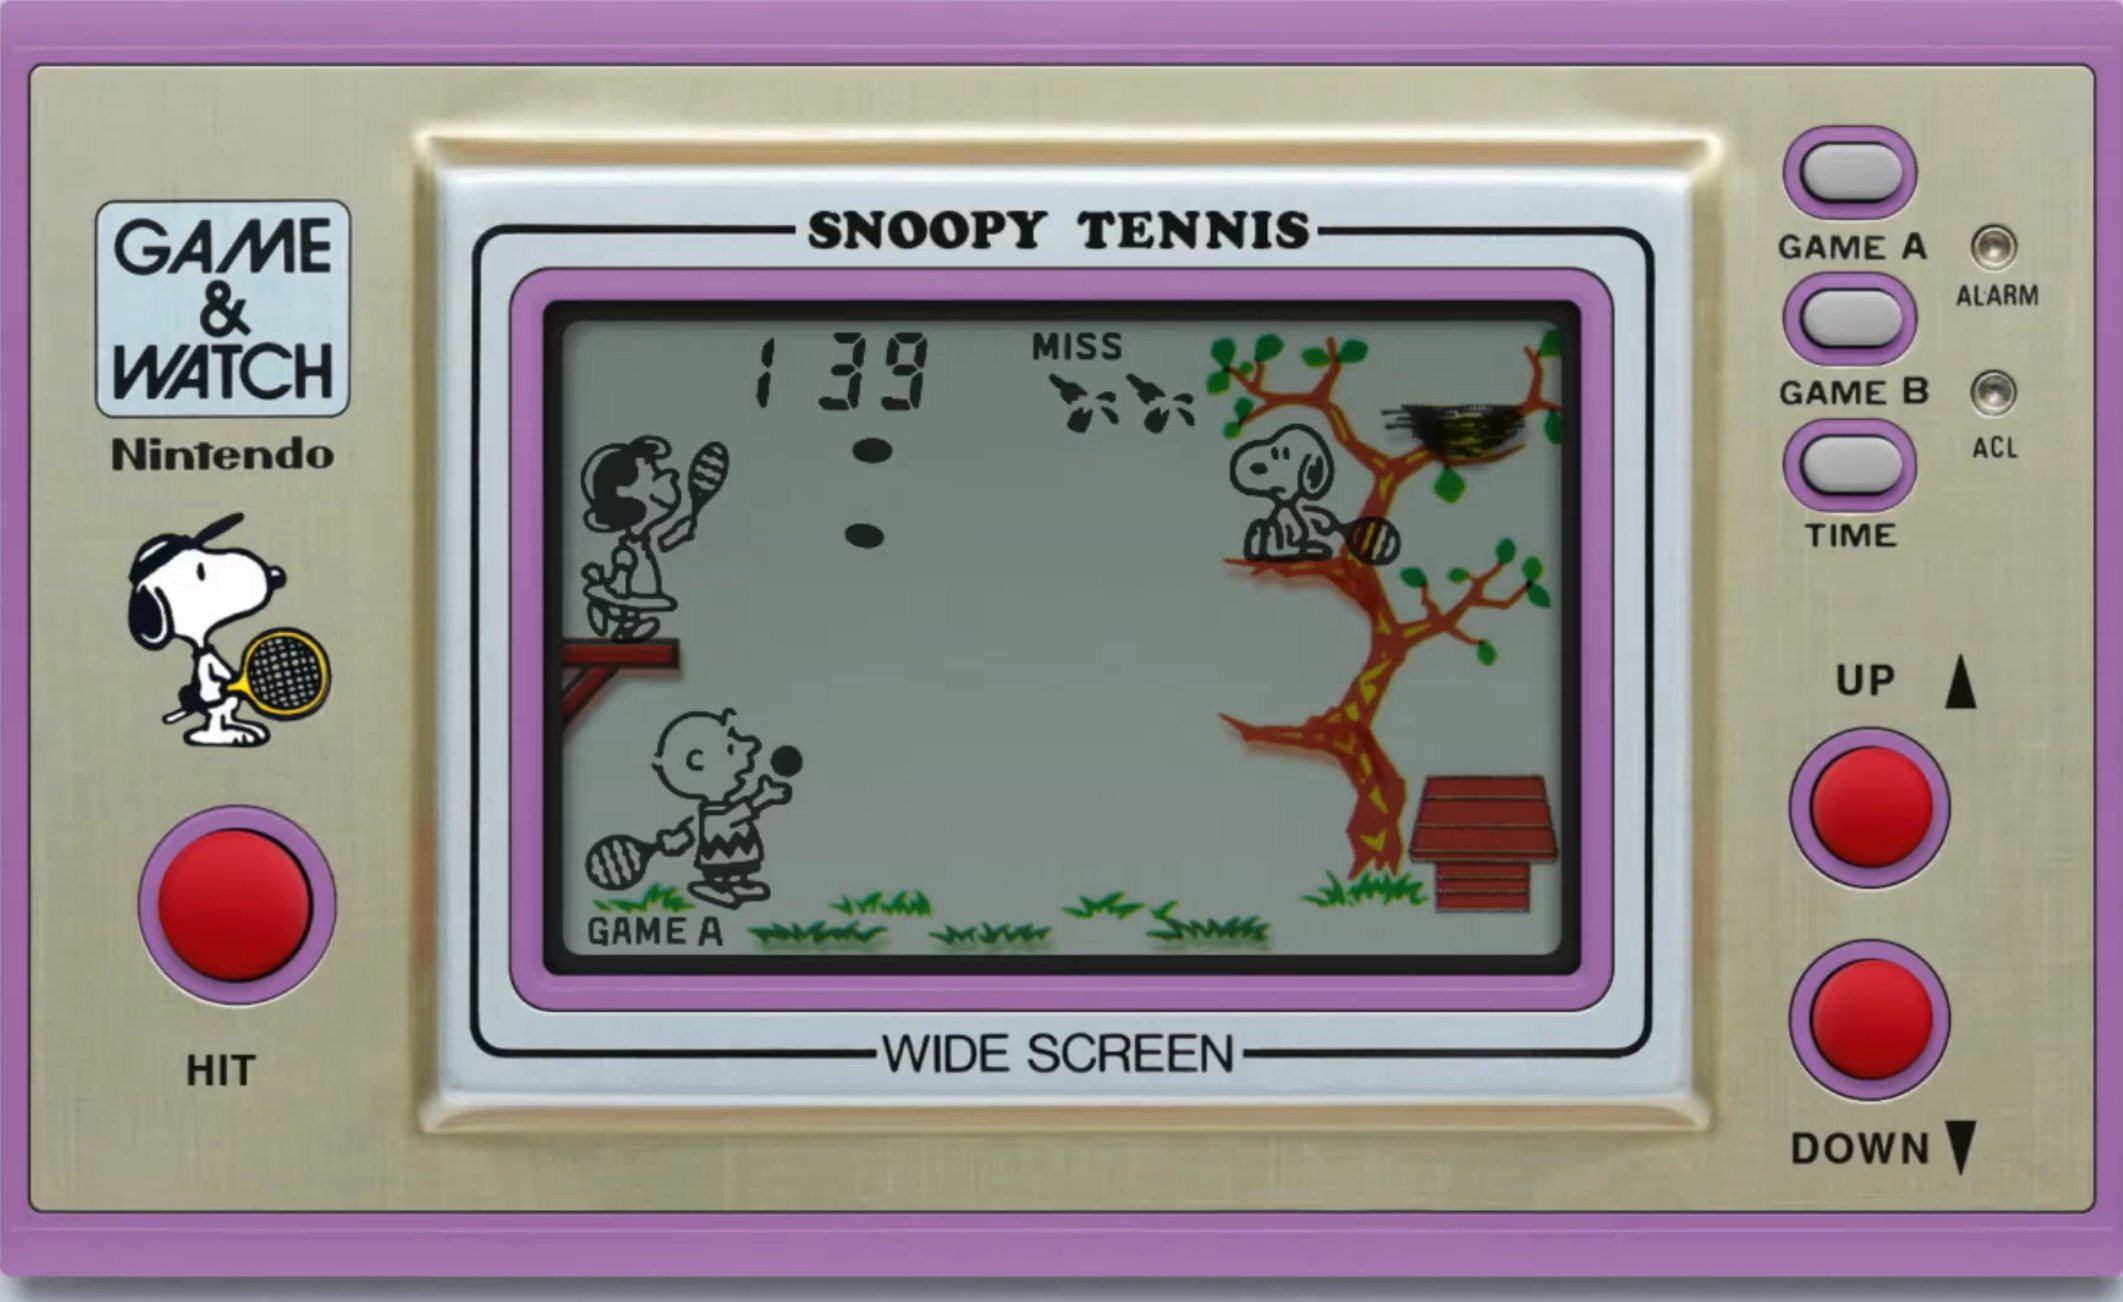
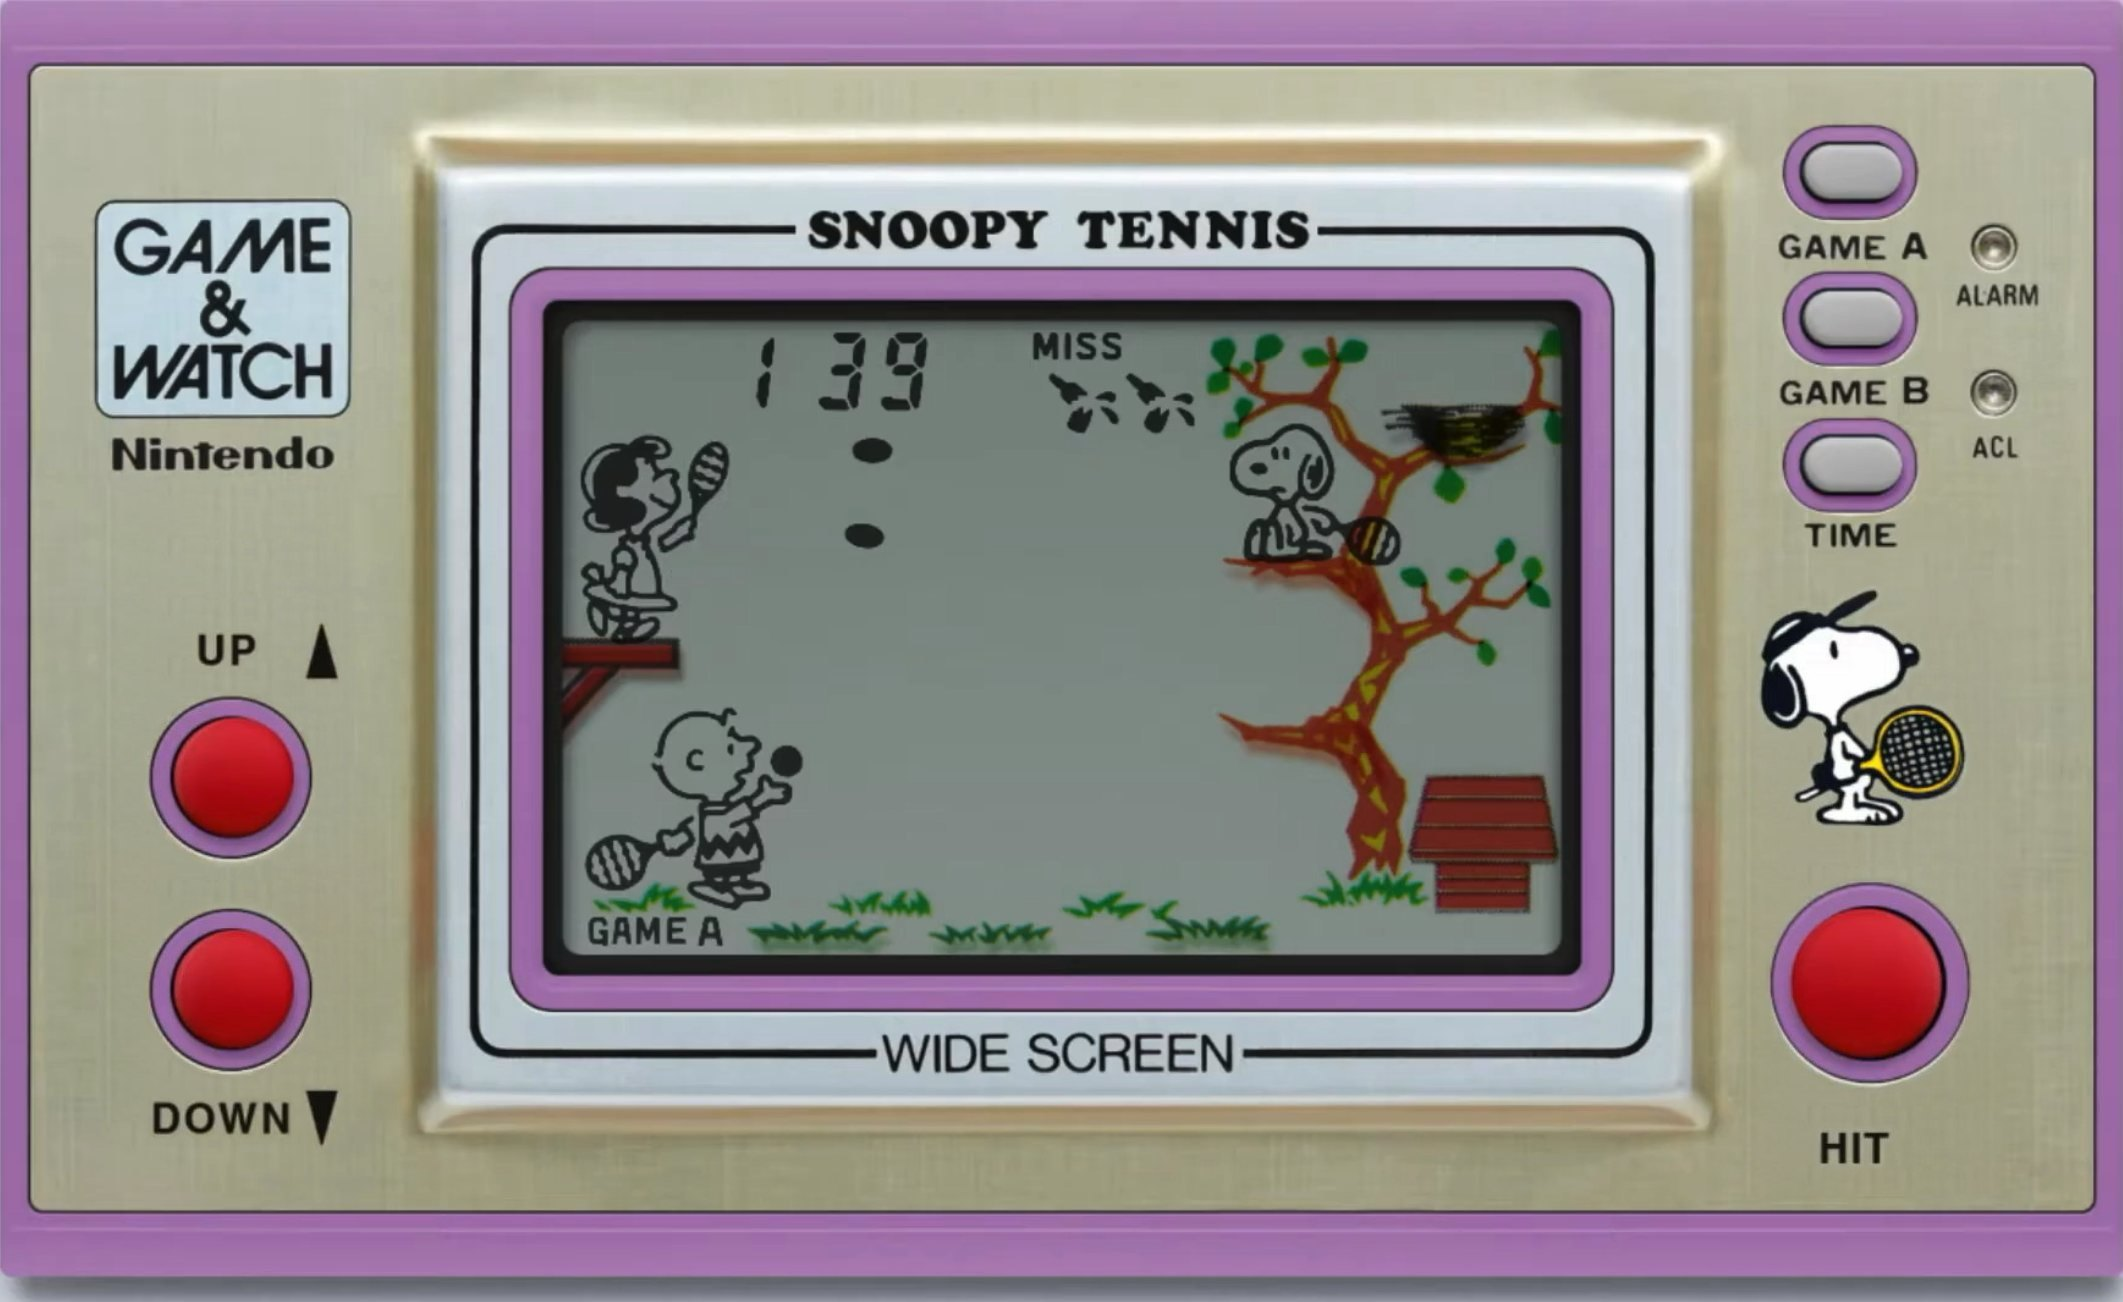
Swap controls: UP/DOWN on the left, HIT on the right (both layouts)
The device photo is re-composed: the UP/DOWN cluster moves to the left, the
HIT button moves to the right, and the Snoopy mascot moves above HIT so all
buttons keep their original size. Vacated areas are refilled with the
faceplate. Touch areas follow; the upright layout is mirrored to match.

Claude-Session: https://claude.ai/code/session_01F9zz5Cnvdqt99eQ18sZoej

Changed region(s): [[0.0622, 0.3994, 0.1865, 0.8909], [0.8083, 0.4608, 0.9326, 0.8909]]

diff --git a/snoopy-tennis/index.html b/snoopy-tennis/index.html
@@ -68,7 +68,7 @@ html,body{margin:0;height:100%;background:radial-gradient(ellipse at 50% 45%,#3b
   border:4px solid #9b78b4;background:linear-gradient(#fbfbfd,#c7c7cf 60%,#a9a9b3);
   box-shadow:0 3px 0 #6f5489,0 5px 8px rgba(60,40,10,.25),inset 0 1px 0 #fff}
 .pillbtn.on{transform:translateY(3px);box-shadow:0 0 0 #6f5489,0 1px 2px rgba(60,40,10,.2),inset 0 2px 3px rgba(0,0,0,.2)}
-.main{display:flex;align-items:center;justify-content:space-between;padding:0 clamp(6px,4vw,22px)}
+.main{display:flex;flex-direction:row-reverse;align-items:center;justify-content:space-between;padding:0 clamp(6px,4vw,22px)}
 .dpad{display:flex;flex-direction:column;gap:clamp(6px,1.6vh,14px)}
 .red{--s:clamp(66px,10.5vh,86px);width:var(--s);height:var(--s);border-radius:50%;padding:0;cursor:pointer;touch-action:none;
   border:6px solid #9b78b4;
@@ -90,9 +90,9 @@ html,body{margin:0;height:100%;background:radial-gradient(ellipse at 50% 45%,#3b
   <button class="hit pill" id="bA"  aria-label="GAME A"  style="left:1780px;top:142px;width:140px;height:60px"></button>
   <button class="hit pill" id="bB"  aria-label="GAME B"  style="left:1780px;top:286px;width:140px;height:60px"></button>
   <button class="hit pill" id="bT"  aria-label="TIME"    style="left:1780px;top:432px;width:140px;height:60px"></button>
-  <button class="hit" id="up"   aria-label="UP"   style="left:1774px;top:710px;width:192px;height:192px"></button>
-  <button class="hit" id="down" aria-label="DOWN" style="left:1774px;top:920px;width:192px;height:192px"></button>
-  <button class="hit" id="hit"  aria-label="HIT"  style="left:140px;top:808px;width:192px;height:192px"></button>
+  <button class="hit" id="up"   aria-label="UP"   style="left:135px;top:680px;width:192px;height:192px"></button>
+  <button class="hit" id="down" aria-label="DOWN" style="left:135px;top:890px;width:192px;height:192px"></button>
+  <button class="hit" id="hit"  aria-label="HIT"  style="left:1773px;top:886px;width:192px;height:192px"></button>
 </div>
 </div>
 <canvas id="cv" width="997" height="632"></canvas>

diff --git a/snoopy-tennis/sw.js b/snoopy-tennis/sw.js
@@ -1,4 +1,4 @@
-const CACHE = 'snoopy-tennis-v13';
+const CACHE = 'snoopy-tennis-v14';
 const ASSETS = ['./', 'index.html', 'manifest.json', 'favicon-32.png', 'apple-touch-icon.png', 'icon-192.png', 'icon-512.png', 'assets/atlas.json', 'assets/bg.webp', 'assets/bird1.webp', 'assets/bird2.webp', 'assets/ch_ball.webp', 'assets/ch_idle.webp', 'assets/ch_pow.webp', 'assets/ch_toss.webp', 'assets/d0.png', 'assets/d1.png', 'assets/d2.png', 'assets/d3.png', 'assets/d4.png', 'assets/d5.png', 'assets/d6.png', 'assets/d7.png', 'assets/d8.png', 'assets/d9.png', 'assets/device.jpg', 'assets/h1.png', 'assets/lu_idle.webp', 'assets/lu_swing.webp', 'assets/lu_up.webp', 'assets/miss_txt.webp', 'assets/sn_bot_idle.webp', 'assets/sn_bot_swing.webp', 'assets/sn_bot_up.webp', 'assets/sn_mid_idle.webp', 'assets/sn_mid_swing.webp', 'assets/sn_mid_up.webp', 'assets/sn_top_idle.webp', 'assets/sn_top_swing.webp', 'assets/sn_top_up.webp'];
 self.addEventListener('install', e => {
   e.waitUntil(caches.open(CACHE).then(c => c.addAll(ASSETS)).then(() => self.skipWaiting()));
